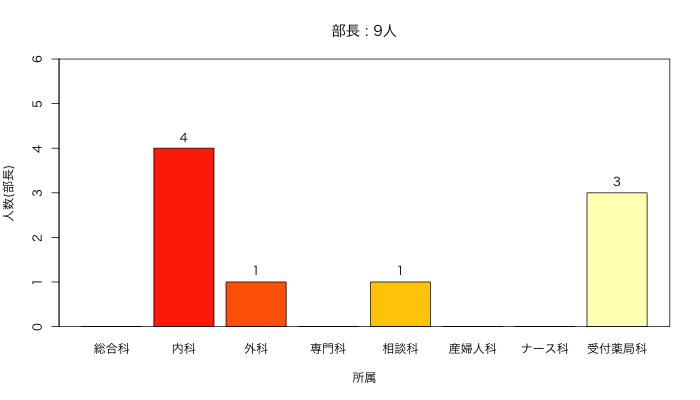
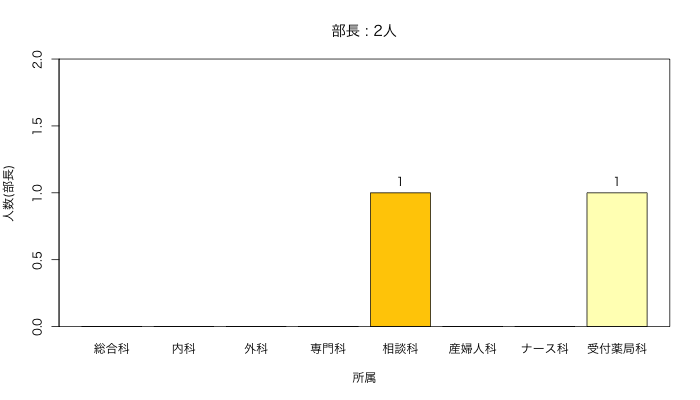
更新

diff --git a/ReadMe.md b/ReadMe.md
@@ -26,23 +26,23 @@
 |医院長|相談科|あめ||
 |副医院長|受付薬局科|Sherry||
 |副医院長補佐|ナース科|さきりん||
-|部長|内科|Fx||
-|部長|内科|くぅ||
-|部長|内科|まあ||
-|部長|内科|みなみん||
-|部長|外科|ノッチィ||
 |部長|相談科|れい||
-|部長|受付薬局科|かのん||
 |部長|受付薬局科|宇佐|<img src="https://github.com/fairy00000/organization/blob/master/image/new.gif">|
-|部長|受付薬局科|渚||
+|主任|内科|Fx||
 |主任|内科|SEANO||
+|主任|内科|くぅ||
 |主任|内科|にゃんこ||
+|主任|内科|まるきゅう||
+|主任|内科|みなみん||
 |主任|内科|ルミカ||
+|主任|外科|ノッチィ||
 |主任|相談科|saaya||
 |主任|相談科|かお||
 |主任|相談科|みさき||
 |主任|受付薬局科|nami|<img src="https://github.com/fairy00000/organization/blob/master/image/new.gif">|
+|主任|受付薬局科|かのん||
 |主任|受付薬局科|りな||
+|主任|受付薬局科|渚||
 
 ### 人数
 
@@ -54,8 +54,8 @@
 |副医院長補佐|0|0|0|0|0|0|1|0|1|
 |医局長|0|0|0|0|0|0|0|0|0|
 |事務局長|0|0|0|0|0|0|0|0|0|
-|部長|0|4|1|0|1|0|0|3|9|
-|主任|0|3|0|0|3|0|0|2|8|
+|部長|0|0|0|0|1|0|0|1|2|
+|主任|0|7|1|0|3|0|0|4|15|
 |合計|1|7|2|2|5|0|1|6|24|
 
 <img src="https://github.com/fairy00000/organization/blob/master/image/Member.png">
